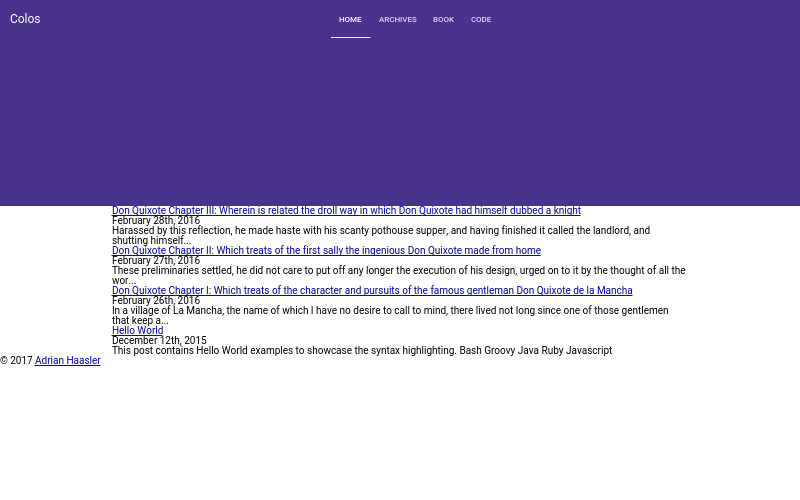
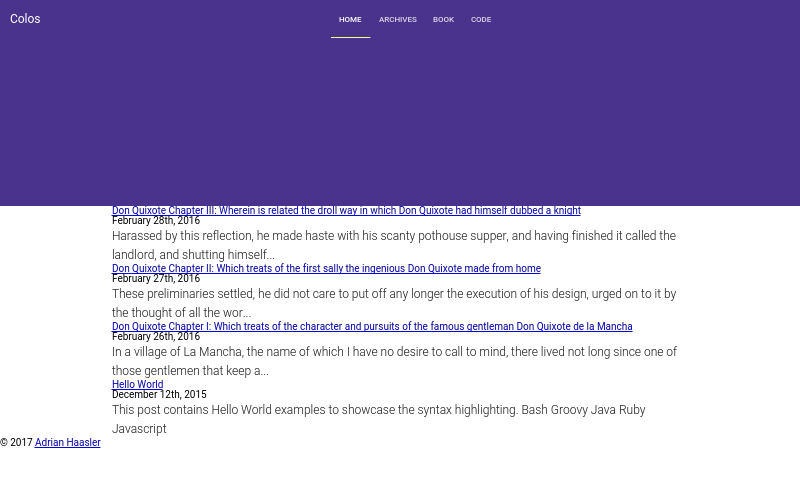
Style post content primary text and paragraphs
Built from 765eafa675372b7e8c35d9f6c1819ee55432bbf6.

Changed region(s): [[0.0, 0.45, 0.8438, 0.87], [0.0, 0.87, 0.125, 0.9]]

diff --git a/source/css/main.css b/source/css/main.css
@@ -3,4 +3,4 @@ http://meyerweb.com/eric/tools/css/reset/
 v2.0 | 20110126
 License: none (public domain)
 */a,abbr,acronym,address,applet,article,aside,audio,b,big,blockquote,body,canvas,caption,center,cite,code,dd,del,details,dfn,div,dl,dt,em,embed,fieldset,figcaption,figure,footer,form,h1,h2,h3,h4,h5,h6,header,hgroup,html,i,iframe,img,ins,kbd,label,legend,li,mark,menu,nav,object,ol,output,p,pre,q,ruby,s,samp,section,small,span,strike,strong,sub,summary,sup,table,tbody,td,tfoot,th,thead,time,tr,tt,u,ul,var,video{margin:0;padding:0;border:0;font-size:100%;font:inherit;vertical-align:baseline}
-/* HTML5 display-role reset for older browsers */article,aside,details,figcaption,figure,footer,header,hgroup,menu,nav,section{display:block}body{line-height:1}ol,ul{list-style:none}blockquote,q{quotes:none}blockquote:after,blockquote:before,q:after,q:before{content:"";content:none}table{border-collapse:collapse;border-spacing:0}h1,h2,h3,h4,h5,h6{color:rgba(0,0,0,.9)}body{font-family:Roboto,sans-serif}app-drawer-layout>#contentContainer:not(.narrow){margin-left:0!important}app-drawer-layout>#contentContainer:not(.narrow)+app-drawer{visibility:hidden!important}app-drawer-layout>.narrow paper-tabs{display:none!important}app-header{color:#fff;background-color:#7c4dff}app-header #backgroundFrontLayer{background-position:50%}app-header #backgroundFrontLayer:before{content:"";display:block;position:absolute;top:0;bottom:0;left:0;right:0;background:rgba(25,25,25,.5)}app-toolbar.middle{height:10em}app-toolbar.bottom{height:4em}app-toolbar a{color:#fff;text-decoration:none}app-toolbar [main-title]{position:absolute;margin-left:2em;font-size:1.6em;font-weight:300}app-toolbar [condensed-title]{max-width:0}app-toolbar paper-tabs{height:100%!important}app-toolbar paper-tabs paper-tab{text-transform:uppercase}app-toolbar paper-tabs paper-tab[link] a{padding:0 1em}.page-content .wrapper>:not(colos-grid){max-width:960px;margin:0 auto}.highlight,pre{background:#212121;color:#f5f5f5}.highlight .string,pre .string{color:#ffeb3b}.highlight .comment,pre .comment{color:#727272}.highlight .keyword,pre .keyword{color:#ff4081}.highlight .built_in,pre .built_in{color:#00bcd4}.highlight .number,.literal,pre .number{color:#7c4dff}.highlight.bash .shebang,pre.bash .shebang{color:#727272}.highlight.bash .variable,pre.bash .variable{color:#b6b6b6}.highlight.bash .title,pre.bash .title{color:#8bc34a}
+/* HTML5 display-role reset for older browsers */article,aside,details,figcaption,figure,footer,header,hgroup,menu,nav,section{display:block}body{line-height:1}ol,ul{list-style:none}blockquote,q{quotes:none}blockquote:after,blockquote:before,q:after,q:before{content:"";content:none}table{border-collapse:collapse;border-spacing:0}h1,h2,h3,h4,h5,h6{color:rgba(0,0,0,.9)}body{font-family:Roboto,sans-serif}.post-content{color:#212121;line-height:1.6;font-size:1.25em;font-weight:300}.post-content p{margin-bottom:1em}app-drawer-layout>#contentContainer:not(.narrow){margin-left:0!important}app-drawer-layout>#contentContainer:not(.narrow)+app-drawer{visibility:hidden!important}app-drawer-layout>.narrow paper-tabs{display:none!important}app-header{color:#fff;background-color:#7c4dff}app-header #backgroundFrontLayer{background-position:50%}app-header #backgroundFrontLayer:before{content:"";display:block;position:absolute;top:0;bottom:0;left:0;right:0;background:rgba(25,25,25,.5)}app-toolbar.middle{height:10em}app-toolbar.bottom{height:4em}app-toolbar a{color:#fff;text-decoration:none}app-toolbar [main-title]{position:absolute;margin-left:2em;font-size:1.6em;font-weight:300}app-toolbar [condensed-title]{max-width:0}app-toolbar paper-tabs{height:100%!important}app-toolbar paper-tabs paper-tab{text-transform:uppercase}app-toolbar paper-tabs paper-tab[link] a{padding:0 1em}.page-content .wrapper>:not(colos-grid){max-width:960px;margin:0 auto}.highlight,pre{background:#212121;color:#f5f5f5}.highlight .string,pre .string{color:#ffeb3b}.highlight .comment,pre .comment{color:#727272}.highlight .keyword,pre .keyword{color:#ff4081}.highlight .built_in,pre .built_in{color:#00bcd4}.highlight .number,.literal,pre .number{color:#7c4dff}.highlight.bash .shebang,pre.bash .shebang{color:#727272}.highlight.bash .variable,pre.bash .variable{color:#b6b6b6}.highlight.bash .title,pre.bash .title{color:#8bc34a}
